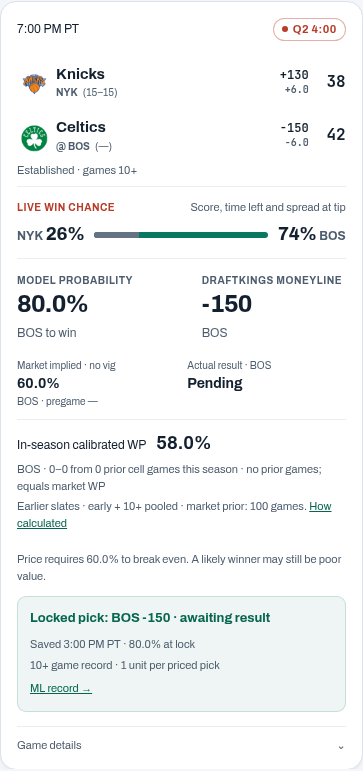
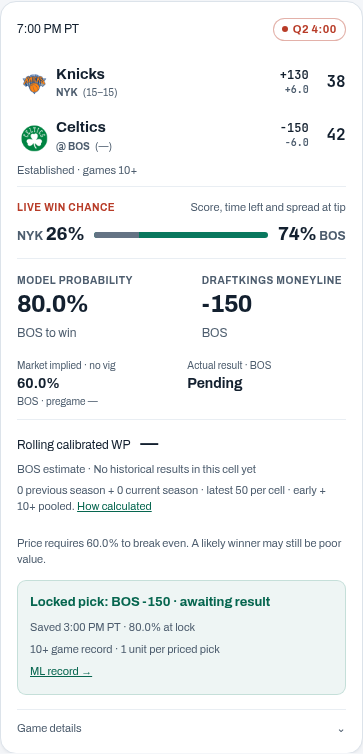
Use latest 50 actual results per model-market calibration cell

diff --git a/public_site.py b/public_site.py
@@ -191,7 +191,7 @@ class PublicSite:
         # reader's browser computes it from ESPN's live score (display only)
         self.live_fit = live_wp.load()
         self.predictions = analysis.moneyline_model_predictions(self.native, replay)
-        self.calibration = wp_calibration.SeasonCalibration(self.native)
+        self.calibration = wp_calibration.RollingCalibration(self.native, replay)
         # the O/U rows of the live totals model: ou3's once Fit model has
         # written it (or a native lock carries it), else ou2's
         self.ou = "ou3" if analysis.ou3_active(self.native) else "ou2"
@@ -356,16 +356,17 @@ class PublicSite:
         u = self.ui
         estimate = self.calibration.estimate(row)
         if estimate is None:
-            return ("<div class='season-calibration' data-season-calibration>In-season calibrated WP <strong>—</strong>"
+            return ("<div class='season-calibration' data-season-calibration>Rolling calibrated WP <strong>—</strong>"
                     "<small>Requires a v11 forecast, team experience and valid DraftKings prices.</small></div>")
         n, wins, losses = estimate['games'], estimate['wins'], estimate['losses']
-        support = f"{wins}–{losses} from {n} prior cell game{'s' if n != 1 else ''} this season"
         pool = 'early + 10+ pooled' if wp_calibration.stage(row) in ('early', 'established') else 'opening games only'
-        fallback = " · no prior games; equals market WP" if not n else ''
+        support = (f"Pooled cell: {wins}–{losses} across {n} game{'s' if n != 1 else ''}, all teams" if n
+                   else 'No historical results in this cell yet')
         return (f"<div class='season-calibration' data-season-calibration data-cell-games='{n}' data-cell-wins='{wins}'>"
-                f"In-season calibrated WP <strong>{u.pct(estimate['probability'])}</strong>"
-                f"<small>{u.esc(team)} · {support}{fallback}</small>"
-                f"<small>Earlier slates · {pool} · market prior: 100 games. <a href='how-it-works.html#in-season-calibration'>How calculated</a></small></div>")
+                f"Rolling calibrated WP <strong>{u.pct(estimate['probability'])}</strong>"
+                f"<small>{u.esc(team)} estimate · {support}</small>"
+                f"<small>{estimate['previous_games']} previous season + {estimate['current_games']} current season · latest 50 per cell · {pool}. "
+                "<a href='how-it-works.html#in-season-calibration'>How calculated</a></small></div>")
 
     def live_block(self, row, dk):
         """The live win chance (owner request, 2026-11-07; live_wp.py): the
@@ -793,12 +794,14 @@ class PublicSite:
 <p><b>Model probability</b> is the chance of the model’s predicted winner winning; <b>DraftKings moneyline</b> is that team’s current market price. The <b>break-even probability</b> is the win rate needed to cover that price, including the bookmaker’s margin. A predicted winner is not necessarily good value. Model and market probabilities refer to the same team and can update until tip. Actual result is that team’s Win or Loss; realized win rates across games appear in ML performance. A saved <b>locked pick</b> is shown separately at its original price. Times are Pacific.</p>
 <p><b>Live win chance</b> updates from the current score, time left and spread at tip every 30 seconds while games are in progress. It is display context, is not saved and never changes a pick or record.</p>
 <p>Game details retain the predicted margin, both teams’ season records, four factors from games before the slate, and timestamped ESPN injuries. The model uses the NBA’s official injury report separately.</p></section>
-<section id='in-season-calibration'><h2>In-season calibrated WP</h2>
-<p>This is an experimental estimate for the <b>same team as the current model forecast</b>. It uses realized results where the model and market probabilities fell in the same joint cell this season. It can update with the pregame forecast and price until tip; it is separate from live win chance and the saved locked pick.</p>
-<p><b>Calibrated WP = (prior cell wins + 100 × current market WP) ÷ (prior cell games + 100).</b> Market WP is the DraftKings moneyline probability with the bookmaker’s margin removed. With no prior games, the estimate equals market WP.</p>
-<p>Prior cell games are graded native v11 five-hour locks from <b>strictly earlier slates in the same season</b>. Historical replays, prior seasons, pending games and void locks do not enter. Early games and games 10+ share calibration evidence; opening games remain separate. The tracked early and 10+ records remain separate. Each prior game uses its model’s selected team, saved model probability, saved DraftKings probability and actual Win/Loss.</p>
-<p>Model bands: 50–60%, 60–70%, 70–80%, 80–100%. Market bands for that same team: below 50%, 50–60%, 60–70%, 70–80%, 80–100%. Boundaries enter the higher band; 100% enters the final band. The card shows the prior cell’s W/L and count; 100 is a fixed smoothing weight, not 100 additional observed games.</p>
-<p>This display estimate does not change the model, tracked picks or record. Sparse cells remain close to the market probability; an improvement or betting advantage has not been established.</p></section>
+<section id='in-season-calibration'><h2>Rolling calibrated WP</h2>
+<p>This experimental estimate is a lookup of realized model–market interactions for the <b>same team as the current model forecast</b>. Model WP selects the matrix row and no-vig DraftKings WP selects the column. The cell pools games across <b>all NBA teams</b>; it is not that franchise’s record.</p>
+<p><b>Rolling calibrated WP = wins ÷ games among the latest 50 actual results in that cell.</b> There are no market pseudo-games and no shrinkage. Use all available results if a cell has fewer than 50; an empty cell has no estimate. A small cell can show 0% or 100%, which is an observed frequency and does not establish certainty about the next game.</p>
+<p>The <b>immediately previous season</b> supplies the starting matrix. Current-season evidence uses valid graded native v11 five-hour locks on strictly earlier slates. Same-season replay, older seasons, pending games and void locks do not enter. New results replace the oldest matching observations once the cell reaches 50. Order is slate date, then game ID for ties.</p>
+<p>Early games and games 10+ share calibration evidence; opening games remain separate. Each historical game contributes once, oriented to its model’s selected team. Model and market picks can disagree: a model-picked market underdog belongs in a market-WP-below-50% cell. The other side’s implied estimate is the complement; the two sides are not counted as independent results.</p>
+<p>Previous-season replay uses its saved v11 model forecast and DraftKings closing prices. Current native evidence uses saved five-hour model probabilities and prices. These price timings differ, and the available previous-season DraftKings seed contains games 10+ only. The card shows how many retained observations come from each season.</p>
+<p>Model bands: 50–60%, 60–70%, 70–80%, 80–100%. Market bands: below 50%, 50–60%, 60–70%, 70–80%, 80–100%. Boundaries enter the higher band; 100% enters the final band.</p>
+<p>The current forecast and price define the new game’s cell and can update until tip. This display is separate from live win chance and the frozen pick. It does not change the model, tracked selections, grades or separate early/10+ performance records. A predictive or betting advantage has not been established.</p></section>
 <section><h2>The model</h2>
 <p>The same v11 model predicts a points margin and converts it to a win probability. Inputs include recent shooting, turnovers, rebounding and free-throw rates for and against; home court, back-to-backs and season phase; roster value and the NBA injury report. Last season’s team rating fades out over the first 10 games. Market prices are benchmarks, never model inputs.</p>""" + self.model_note() + """</section>
 """

diff --git a/tests/test_wp_calibration.py b/tests/test_wp_calibration.py
@@ -1,4 +1,4 @@
-"""Causal, same-season/stage joint calibration; no production mutation."""
+"""Causal rolling joint calibration; no production mutation."""
 import numpy as np
 import pandas as pd
 import pytest
@@ -6,7 +6,7 @@ import pytest
 import build_site as ui
 from public_site import PublicSite
 from test_public_site import rows
-from wp_calibration import SeasonCalibration, band, MODEL_BOUNDS, MARKET_BOUNDS
+from wp_calibration import RollingCalibration, band, MODEL_BOUNDS, MARKET_BOUNDS
 
 
 def record(gid, date='2026-11-10', won=1, **changes):
@@ -28,39 +28,39 @@ def test_formula_excludes_other_cells_sources_stages_dates_seasons_and_invalid_l
     target=record('target',date='2026-11-11',won=1)
     g=pd.DataFrame([record('win'),record('loss',won=0),
         record('pending',won=np.nan),record('same',date='2026-11-11'),record('future',date='2026-11-12'),
-        record('old',season=2026),record('replay',basis='reconstructed'),record('opener',gp_home=0),
+        record('old',season=2025),record('replay',basis='reconstructed'),record('opener',gp_home=0),
         record('other-model-cell',lock_p_home=.85),record('other-market-cell',lock_home_ml=-150,lock_away_ml=150),
         record('legacy',lock_model_tag=ui.MODEL_TAG_V10),record('no-price',lock_away_ml=np.nan),
         record('other-book',lock_book='espnbet'),record('late-lock',lock_snapshot_utc='2026-11-11T04:00:00Z'),
         record('401909897')])  # existing stale-data void
     before=g.copy(deep=True)
-    est=SeasonCalibration(g).estimate(target)
+    est=RollingCalibration(g).estimate(target)
     assert est['games']==2 and est['wins']==1 and est['losses']==1
-    assert est['probability']==pytest.approx((1+100*.75)/102)
+    assert est['probability']==.5
     pd.testing.assert_frame_equal(before,g)
     # The target's own outcome and mutable current probabilities of prior rows
     # never substitute for prior saved lock probabilities.
     changed=g.assign(p_home=.99,pre_home_ml=-999,pre_away_ml=999)
-    assert SeasonCalibration(changed).estimate(target)['probability']==est['probability']
+    assert RollingCalibration(changed).estimate(target)['probability']==est['probability']
 
 
 def test_reversing_teams_preserves_selected_team_estimate():
     g=pd.DataFrame([record('win'),record('loss',won=0)])
     target=record('target',date='2026-11-11')
-    a=SeasonCalibration(g).estimate(target)
+    a=RollingCalibration(g).estimate(target)
     for key in ['p_home','lock_p_home','home_won']:g[key]=1-g[key]
     for prefix in ['pre','lock']:
         g[f'{prefix}_home_ml'],g[f'{prefix}_away_ml']=g[f'{prefix}_away_ml'].copy(),g[f'{prefix}_home_ml'].copy()
         target[f'{prefix}_home_ml'],target[f'{prefix}_away_ml']=target[f'{prefix}_away_ml'],target[f'{prefix}_home_ml']
     target['p_home']=1-target.p_home
-    assert SeasonCalibration(g).estimate(target)==a
+    assert RollingCalibration(g).estimate(target)==a
 
 
-def test_empty_cell_falls_back_to_market_and_invalid_inputs_are_unavailable():
-    empty=SeasonCalibration(pd.DataFrame([record('opener',gp_home=0)]))
+def test_empty_cell_is_unavailable_and_invalid_inputs_are_unavailable():
+    empty=RollingCalibration(pd.DataFrame([record('opener',gp_home=0)]))
     target=record('target',date='2026-11-11')
     est=empty.estimate(target)
-    assert est['games']==0 and est['probability']==.75
+    assert est['games']==0 and np.isnan(est['probability'])
     opener=target.copy();opener['gp_home']=0
     assert empty.estimate(opener)['games']==1
     for changes in [dict(p_home=np.nan),dict(pre_away_ml=np.nan),dict(pre_book='espnbet'),
@@ -77,16 +77,55 @@ def test_boundary_membership_and_public_card_explain_support_and_formula():
     target=record('target',date='2026-11-11',won=np.nan)
     site=PublicSite(ui,pd.DataFrame([record('prior'),target]),'2026-11-11','built')
     card=site.card(target)
-    assert 'In-season calibrated WP' in card and '75.2%' in card and '1–0 from 1 prior cell game this season' in card
-    assert 'prior cell wins + 100 × current market WP' in site.guide_page()
+    assert 'Rolling calibrated WP' in card and '100.0%' in card and 'Pooled cell: 1–0 across 1 game, all teams' in card
+    assert 'latest 50 actual results in that cell' in site.guide_page()
     assert "data-cell-games='1'" in card
-    assert 'no prior games; equals market WP' in site.card(record('empty',date='2026-11-09'))
+    assert 'No historical results in this cell yet' in site.card(record('empty',date='2026-11-09'))
 
 
 def test_early_and_ten_plus_pool_only_calibration_evidence():
     g=pd.DataFrame([record('early',gp_home=9),record('established',won=0)])
     target=record('target',date='2026-11-11')
-    a=SeasonCalibration(g).estimate(target)
+    a=RollingCalibration(g).estimate(target)
     target['gp_home']=5
-    assert SeasonCalibration(g).estimate(target)==a
+    assert RollingCalibration(g).estimate(target)==a
     assert a['games']==2 and a['wins']==1
+
+
+def replay(gid, date='2025-12-01', won=1, **changes):
+    return record(gid,date=date,won=won,season=2026,basis='reconstructed',
+                  close_book='dk',close_home_ml=-300,close_away_ml=300,**changes)
+
+
+def test_previous_season_seed_rolls_to_latest_fifty_with_live_updates():
+    history=pd.DataFrame([replay(f's{i:02d}',won=int(i<10)) for i in range(60)])
+    live=pd.DataFrame([record(f'live{i}',date=f'2026-11-{8+i:02d}') for i in range(3)])
+    target=record('target',date='2026-11-11')
+    before=history.copy(deep=True)
+    c=RollingCalibration(live,history)
+    est=c.estimate(target)
+    assert est['games']==50 and est['wins']==3 and est['probability']==.06
+    assert est['previous_games']==47 and est['current_games']==3
+    # Result-independent tie ordering and input-order independence.
+    shuffled=RollingCalibration(live.sample(frac=1,random_state=1),history.sample(frac=1,random_state=2))
+    assert shuffled.estimate(target)==est
+    pd.testing.assert_frame_equal(history,before)
+
+
+def test_previous_seed_excludes_older_and_current_replay_and_respects_native_precedence():
+    live=pd.DataFrame([record('shared',won=0)])
+    history=pd.DataFrame([replay('prior'),replay('older',date='2024-12-01'),replay('current',date='2026-11-01'),
+                          replay('shared')])
+    history.loc[history.game_id.eq('older'),'season']=2025
+    history.loc[history.game_id.eq('current'),'season']=2027
+    est=RollingCalibration(live,history).estimate(record('target',date='2026-11-11'))
+    assert est['games']==2 and est['wins']==1
+    assert est['previous_games']==1 and est['current_games']==1
+
+
+def test_model_selected_market_underdog_cell_is_included():
+    prior=record('dog',lock_p_home=.55,lock_home_ml=150,lock_away_ml=-150)
+    target=record('target',date='2026-11-11',p_home=.55,pre_home_ml=150,pre_away_ml=-150)
+    est=RollingCalibration(pd.DataFrame([prior])).estimate(target)
+    assert est['market_probability']==.4 and est['games']==1 and est['probability']==1
+    assert est['market_range']==(0.,.5)

diff --git a/wp_calibration.py b/wp_calibration.py
@@ -1,10 +1,9 @@
-"""Display-only, in-season joint calibration of v11 ML forecasts.
+"""Display-only rolling joint calibration of v11 ML forecasts.
 
-The prior is 100 copies of the current no-vig market probability. Evidence
-comes only from valid, graded native five-hour locks in the same season,
-model-winner × market-WP cell, on earlier slates. Early and 10+ games
-share evidence; opening games remain separate.
-No model, market price, saved pick or result is written or changed here.
+Use the latest 50 actual outcomes in each model-winner × market-WP cell:
+previous-season replay seeds plus current-season native five-hour locks.
+Early and 10+ share evidence; opening games remain separate. No market
+pseudo-games, model changes, price changes, or writes to saved results.
 """
 from __future__ import annotations
 
@@ -14,7 +13,7 @@ import pandas as pd
 import analysis
 import market
 
-PRIOR_GAMES = 100
+WINDOW_GAMES = 50
 MODEL_BOUNDS = (.5, .6, .7, .8, 1.0)
 MARKET_BOUNDS = (0., .5, .6, .7, .8, 1.0)
 
@@ -32,24 +31,28 @@ def stage(row):
     return 'established' if gp >= 10 else 'early' if gp >= 1 else 'opener' if gp == 0 else None
 
 
-class SeasonCalibration:
-    def __init__(self, native):
+class RollingCalibration:
+    def __init__(self, native, replay=None):
         # Reuse the registered exclusions, family, timing and stage boundaries.
-        live = analysis.model_predictions(native)
+        predictions = analysis.moneyline_model_predictions(native, replay)
         self.rows = []
-        for _, row in live.iterrows():
+        for _, row in predictions.iterrows():
             y = pd.to_numeric(row.get('home_won'), errors='coerce')
-            if y not in (0, 1) or row.get('lock_book') != 'dk':
+            if y not in (0, 1):
                 continue
-            q = market.devig(row.get('lock_home_ml'), row.get('lock_away_ml'))
+            source = row.prediction_source
+            prefix = 'lock' if source == 'live' else 'close'
+            if row.get(f'{prefix}_book') != 'dk':
+                continue
+            q = market.devig(row.get(f'{prefix}_home_ml'), row.get(f'{prefix}_away_ml'))
             if not np.isfinite(q):
                 continue
-            p_home = pd.to_numeric(row.lock_p_home, errors='coerce')
+            p_home = pd.to_numeric(row.lock_p_home if source == 'live' else row.p_home, errors='coerce')
             home = p_home >= .5
             p_pick = p_home if home else 1 - p_home
             q_pick = q if home else 1 - q
             self.rows.append(dict(game_id=str(row.game_id), season=row.season,
-                date=str(row.slate_date), stage=row.prediction_stage,
+                date=str(row.slate_date), stage=row.prediction_stage, source=source,
                 model_band=band(p_pick, MODEL_BOUNDS), market_band=band(q_pick, MARKET_BOUNDS),
                 won=int(y if home else 1-y)))
 
@@ -71,12 +74,20 @@ class SeasonCalibration:
         home = p >= .5
         p_pick, q_pick = (p, q_home) if home else (1-p, 1-q_home)
         pb, qb = band(p_pick, MODEL_BOUNDS), band(q_pick, MARKET_BOUNDS)
-        prior = [r for r in self.rows if r['season'] == row.get('season')
+        season = pd.to_numeric(row.get('season'), errors='coerce')
+        if not np.isfinite(season):
+            return None
+        prior = [r for r in self.rows
+                 if ((r['season'] == season and r['source'] == 'live') or r['season'] == season-1)
                  and (r['stage'] in ('early', 'established') if experience in ('early', 'established') else r['stage'] == experience)
                  and r['date'] < str(row.get('slate_date'))
                  and r['game_id'] != str(row.get('game_id'))
                  and r['model_band'] == pb and r['market_band'] == qb]
+        # Date and ID provide deterministic order, independent of outcomes.
+        prior = sorted(prior, key=lambda r: (r['date'], r['game_id']))[-WINDOW_GAMES:]
         wins, n = sum(r['won'] for r in prior), len(prior)
-        return dict(probability=(wins + PRIOR_GAMES*q_pick)/(n + PRIOR_GAMES),
+        previous = sum(r['season'] == season-1 for r in prior)
+        return dict(probability=wins/n if n else np.nan,
                     market_probability=q_pick, games=n, wins=wins, losses=n-wins,
+                    previous_games=previous, current_games=n-previous,
                     model_range=MODEL_BOUNDS[pb:pb+2], market_range=MARKET_BOUNDS[qb:qb+2])

diff --git a/research/check_public_ui.py b/research/check_public_ui.py
@@ -184,7 +184,7 @@ def main():
                     page.goto(f'{base}/fixture/index.html')
                     assert page.locator('.gcard:visible').count()==1
                     assert page.locator('.gcard:visible [data-season-calibration]').count()==1
-                    assert 'equals market WP' in page.locator('.gcard:visible [data-season-calibration]').inner_text()
+                    assert 'No historical results in this cell yet' in page.locator('.gcard:visible [data-season-calibration]').inner_text()
                     page.locator('[data-group="stage"][data-show="all"]').click()
                     assert page.locator('.gcard:visible').count()==5
                     # Stage and status compose; counts reflect the other group.

diff --git a/CLAUDE.md b/CLAUDE.md
@@ -5,6 +5,21 @@ state uncertainty, and turn findings into concrete tests.
 
 ## Live model and forward tests
 
+### Rolling matrix amendment — owner approval, November 12, 2026
+
+The owner selected the latest 50 results per joint model-WP × market-WP cell,
+seeded with the immediately previous season and updated with completed earlier
+current-season slates. This supersedes the 100-market-prior display below.
+Use actual cell wins/games without shrinkage; an empty cell is unavailable.
+Current-season evidence remains valid native v11 five-hour locks; historical
+seeding uses eligible v11 replay at its DraftKings close. Exclude same-season
+replay, older seasons, pending/void games and same/later slates. Preserve native
+precedence and one observation per game. Order by date and game ID. Pool early
+and 10+ calibration evidence across all teams; openers remain separate. Include
+model/market disagreement and market-underdog cells. Show actual W/L, window
+size and season composition, and explain the historical close/live-lock timing
+difference. No production model, tracked rule, lock, grade or record changes.
+
 ### In-season calibrated WP — owner approval, November 12, 2026
 
 The owner requested the exact joint-cell estimate on each game card:
